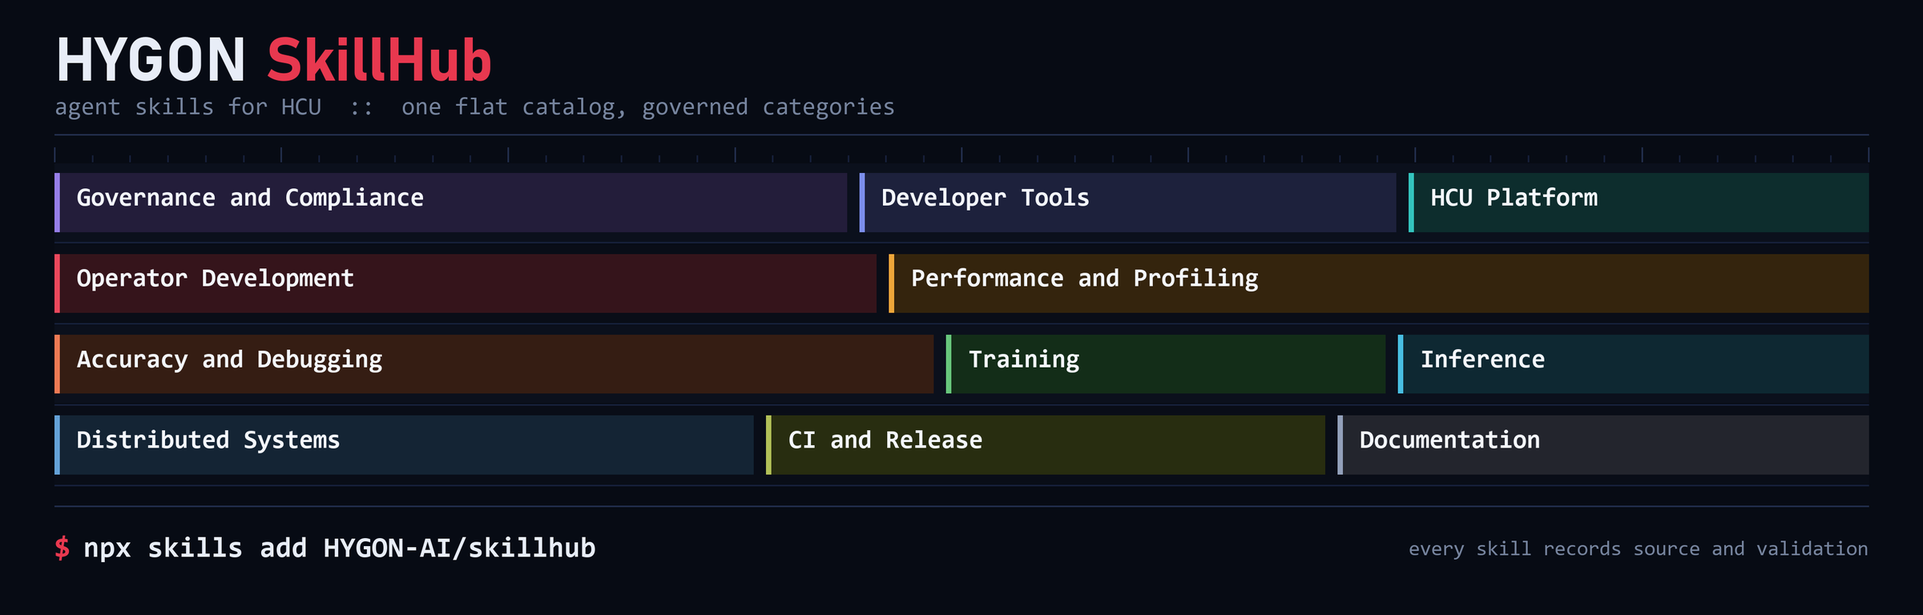
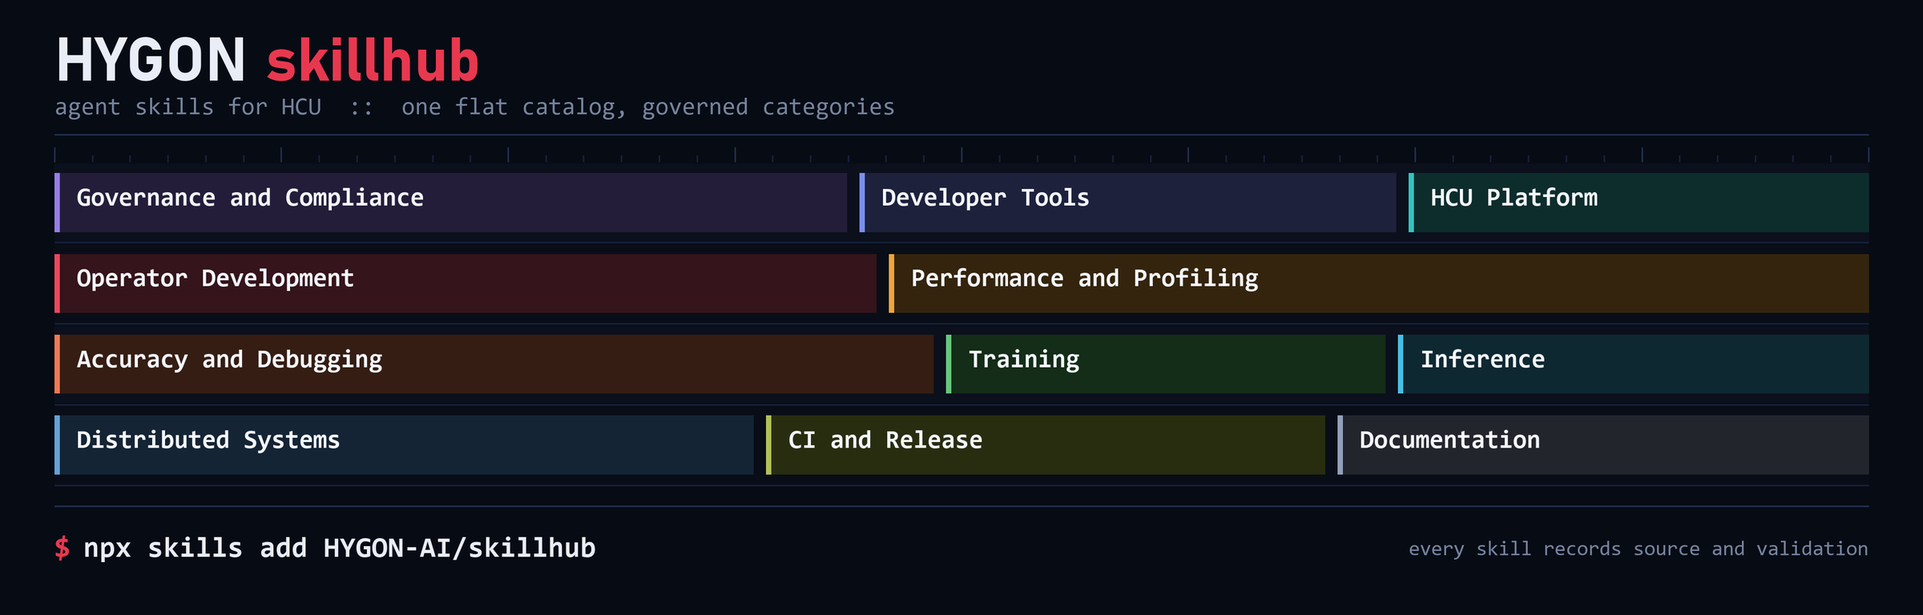
fix(branding): update skillhub display name casing
Cause: the catalog used mixed-case SkillHub labels that did not match the repository name.

Impact: human-facing labels now use lowercase skillhub while stable identifiers remain unchanged.

Changed region(s): [[0.125, 0.0625, 0.2812, 0.1562]]

diff --git a/scripts/new_skill.py b/scripts/new_skill.py
@@ -176,10 +176,10 @@ def validate_config(config):
             f"catalog root does not contain components.d: {config.catalog_root}"
         )
     if config.local and config.source_root.resolve() != config.catalog_root.resolve():
-        raise ScaffoldError("local skills must be created in the SkillHub checkout")
+        raise ScaffoldError("local skills must be created in the skillhub checkout")
     if not config.local and config.source_root.resolve() == config.catalog_root.resolve():
         raise ScaffoldError(
-            "remote product skills must use a product repository outside SkillHub"
+            "remote product skills must use a product repository outside skillhub"
         )
     if config.license_file is not None and (not config.license_file.is_file() or config.license_file.stat().st_size == 0):
         raise ScaffoldError("license file must be a non-empty file")
@@ -524,7 +524,7 @@ def create_scaffold(config, template_root=TEMPLATE_ROOT):
         "NEXT: complete the skill instructions and review the generated Skill Card; lifecycle is already published."
     )
     if config.local:
-        print("NEXT: generate the catalog, validate, and submit one SkillHub pull request.")
+        print("NEXT: generate the catalog, validate, and submit one skillhub pull request.")
     else:
         print(
             "NEXT: merge the source-repository change before synchronizing this component."
@@ -539,7 +539,7 @@ def parse_args(argv=None):
     parser.add_argument(
         "--local",
         action="store_true",
-        help="create the skill directly in SkillHub (the default when --repo is omitted)",
+        help="create the skill directly in skillhub (the default when --repo is omitted)",
     )
     parser.add_argument(
         "--repo",
@@ -589,7 +589,7 @@ def parse_args(argv=None):
     parser.add_argument(
         "--catalog-root",
         default=str(CATALOG_ROOT),
-        help="SkillHub checkout containing components.d and templates",
+        help="skillhub checkout containing components.d and templates",
     )
     parser.add_argument(
         "--with-openai", action="store_true", help="create agents/openai.yaml"
@@ -646,13 +646,13 @@ def config_from_args(args):
         local=local,
         component=component,
         product_name=require_text(
-            args.product_name or ("SkillHub" if local else display_name(component)),
+            args.product_name or ("skillhub" if local else display_name(component)),
             "product name",
         ),
         product_description=require_text(
             args.product_description
             or (
-                "Directly maintained HYGON-AI SkillHub skills."
+                "Directly maintained HYGON-AI skillhub skills."
                 if local
                 else args.description
             ),

diff --git a/tests/test_skillhub.py b/tests/test_skillhub.py
@@ -62,7 +62,7 @@ class ComponentOwnerTests(unittest.TestCase):
             component_dir = root / "components.d"
             component_dir.mkdir()
             (component_dir / "skillhub.yml").write_text(
-                "name: SkillHub\n"
+                "name: skillhub\n"
                 "local: true\n"
                 "description: Directly maintained skills.\n"
                 "skills:\n"
@@ -84,7 +84,7 @@ class ComponentOwnerTests(unittest.TestCase):
             component_dir = root / "components.d"
             component_dir.mkdir()
             (component_dir / "skillhub.yml").write_text(
-                "name: SkillHub\n"
+                "name: skillhub\n"
                 "repo: HYGON-AI/not-skillhub\n"
                 "local: true\n"
                 "description: Directly maintained skills.\n"
@@ -459,7 +459,7 @@ class PublicationContractTests(unittest.TestCase):
             (root / "staging").mkdir()
             (root / "components.d").mkdir()
             (root / "components.d" / "skillhub.yml").write_text(
-                "name: SkillHub\nlocal: true\ndescription: Local fixture.\nskills:\n"
+                "name: skillhub\nlocal: true\ndescription: Local fixture.\nskills:\n"
                 f"  - path: skills/{name}\n    catalog_dir: {name}\n"
                 "    category: Developer Tools\n", encoding="utf-8",
             )

diff --git a/scripts/contribute.py b/scripts/contribute.py
@@ -33,7 +33,7 @@ def parse_args(argv=None):
     commands = parser.add_subparsers(dest="command", required=True)
     importer = commands.add_parser("import", help="copy an existing skill directory into the local catalog (preferred when one exists)")
     importer.add_argument("source", help="one local skill directory or its SKILL.md; source is never modified")
-    importer.add_argument("--owner", help="SkillHub maintaining team; prompted unless supplied")
+    importer.add_argument("--owner", help="skillhub maintaining team; prompted unless supplied")
     importer.add_argument("--license", help="preserve source declarations; undeclared original contributions default to Apache-2.0")
     importer.add_argument("--category", help="exact catalog category; prompt if it cannot be reused")
     importer.add_argument("--runtime-permissions", help="runtime requirements and permissions; may refer to SKILL.md")

diff --git a/assets/build_banner.py b/assets/build_banner.py
@@ -1,4 +1,4 @@
-"""Render the HYGON SkillHub README banner as an animated trace timeline.
+"""Render the HYGON skillhub README banner as an animated trace timeline.
 
 The banner is a profiler-style timeline. Blocks are the eleven enforced catalog
 categories -- the stable public surface -- and a playhead sweeps left to right
@@ -145,7 +145,7 @@ def draw_frame(i):
     # Header ------------------------------------------------------------
     d.text((px(PAD), px(20)), "HYGON", font=f_title, fill=mix(INK, TXT, intro))
     tw = d.textlength("HYGON", font=f_title)
-    d.text((px(PAD) + tw + px(11), px(20)), "SkillHub", font=f_title,
+    d.text((px(PAD) + tw + px(11), px(20)), "skillhub", font=f_title,
            fill=mix(INK, HYGON_RED, intro))
 
     tag = "agent skills for HCU  ::  one flat catalog, governed categories"

diff --git a/scripts/import_skill.py b/scripts/import_skill.py
@@ -259,7 +259,7 @@ def validate_prepared(stage_root, config):
         stage_root / "components.d" / "skillhub.yml",
         yaml.safe_dump(
             {
-                "name": "SkillHub",
+                "name": "skillhub",
                 "local": True,
                 "description": "Local import validation fixture.",
                 "skills": [{
@@ -366,8 +366,8 @@ def import_local_skill(args, root, prompt):
         category=category,
         local=True,
         component="skillhub",
-        product_name="SkillHub",
-        product_description="Directly maintained HYGON-AI SkillHub skills.",
+        product_name="skillhub",
+        product_description="Directly maintained HYGON-AI skillhub skills.",
         source_root=root,
         catalog_root=root,
         license_file=license_file,

diff --git a/tests/test_contribute.py b/tests/test_contribute.py
@@ -293,7 +293,7 @@ class ContributionTests(unittest.TestCase):
                     source = self.source_skill(temporary)
                     component = root / "components.d/skillhub.yml"
                     component.write_text(yaml.safe_dump({
-                        "name": "SkillHub", "local": True, "description": "Fixture.", "skills": skills_value,
+                        "name": "skillhub", "local": True, "description": "Fixture.", "skills": skills_value,
                     }), encoding="utf-8")
                     before = self.snapshot(root)
                     args = ["import", str(source), "--owner", "Catalog Team"] if command == "import" else [

diff --git a/tests/test_new_skill.py b/tests/test_new_skill.py
@@ -323,7 +323,7 @@ class NewSkillTests(unittest.TestCase):
             catalog_root = root / "skillhub"
             (catalog_root / "components.d").mkdir(parents=True)
             (catalog_root / "components.d" / "skillhub.yml").write_text(
-                "name: SkillHub\n"
+                "name: skillhub\n"
                 "local: true\n"
                 "description: Directly maintained skills.\n"
                 "skills:\n"

diff --git a/skills/skillhub-contributor/SKILL.md b/skills/skillhub-contributor/SKILL.md
@@ -1,14 +1,14 @@
 ---
 name: skillhub-contributor
-description: Create, review, and onboard portable Agent Skills into Hygon SkillHub. Use when adding a new SKILL.md to the catalog, registering a local or remote component in components.d, preparing a SkillHub contribution, or diagnosing catalog validation and synchronization failures.
+description: Create, review, and onboard portable Agent Skills into Hygon skillhub. Use when adding a new SKILL.md to the catalog, registering a local or remote component in components.d, preparing a skillhub contribution, or diagnosing catalog validation and synchronization failures.
 license: Apache-2.0
-compatibility: Requires a SkillHub checkout, Python 3.11+, Git, Node.js/npm (CI uses Node 22), and requirements-dev.txt dependencies. Dependency setup, CLI discovery and opt-in remote checks may require network access.
+compatibility: Requires a skillhub checkout, Python 3.11+, Git, Node.js/npm (CI uses Node 22), and requirements-dev.txt dependencies. Dependency setup, CLI discovery and opt-in remote checks may require network access.
 metadata:
   author: HYGON-AI
   version: "1.3.0"
 ---
 
-# Contribute to Hygon SkillHub
+# Contribute to Hygon skillhub
 
 A skill is local by default: it lives in this catalog and ships in one pull
 request. Mirroring from any GitHub repository is an explicit opt-in for maintained
@@ -17,7 +17,7 @@ mirrored skill.
 
 ## Prerequisite
 
-Locate a checkout of the HYGON-AI SkillHub repository before running catalog
+Locate a checkout of the HYGON-AI skillhub repository before running catalog
 commands. If the checkout is absent, stop and give the user the reviewed clone
 or repository-location step. Do not assume `scripts/*.py` exists in a target
 product repository or inside this installed skill.
@@ -34,15 +34,15 @@ product repository or inside this installed skill.
 ## Workflow
 
 1. Confirm the owning team, mode, category and intended user prompts. Original local contributions default to root Apache-2.0 without a license prompt or duplicate LICENSE; preserve existing declarations and legal notices.
-2. When a local skill directory already exists, run `python3 scripts/contribute.py import <path>` from the SkillHub checkout; it copies the package without changing or executing the source. Record the team maintaining the SkillHub copy when prompted for owner; preserve any different source author or owner as attribution. Only when no package exists, run `python3 scripts/contribute.py new <name>` to scaffold one. Generated cards default to `published`, which is metadata, not review approval or permission to submit. Use `scripts/new_skill.py --repo` only for ongoing remote synchronization.
+2. When a local skill directory already exists, run `python3 scripts/contribute.py import <path>` from the skillhub checkout; it copies the package without changing or executing the source. Record the team maintaining the skillhub copy when prompted for owner; preserve any different source author or owner as attribution. Only when no package exists, run `python3 scripts/contribute.py new <name>` to scaffold one. Generated cards default to `published`, which is metadata, not review approval or permission to submit. Use `scripts/new_skill.py --repo` only for ongoing remote synchronization.
 3. Use lowercase letters, digits, and hyphens for the directory and frontmatter `name`, and keep the name globally descriptive.
 4. Keep `SKILL.md` focused on procedures the agent cannot infer. Put detailed knowledge in `references/`, deterministic helpers in `scripts/`, and output material in `assets/`. Do not nest another `SKILL.md`.
 5. Complete scaffold content and review runtime requirements and permissions. Import reuses an existing authored runtime section unless `--runtime-permissions` overrides it; otherwise it prompts or links to `SKILL.md`. No Validation section or eval dataset is required. Preserve real validation notes and attribution; cleanup removes only recognized old template placeholders.
 6. Review the generated `components.d/skillhub.yml` change. The helper registers a local package under its globally unique `catalog_dir` and chosen allowlisted category; do not hand-edit generated catalog files.
-7. Run `python3 scripts/contribute.py check` from the SkillHub root. It regenerates catalog files and runs unit, policy, specification, provenance and normal/full-depth discovery checks without submitting Git changes.
+7. Run `python3 scripts/contribute.py check` from the skillhub root. It regenerates catalog files and runs unit, policy, specification, provenance and normal/full-depth discovery checks without submitting Git changes.
 8. For a remote component only, apply synchronization separately after reviewing destinations, then rerun `contribute.py check`. Remote provenance must prove the ref, resolved commit, source digest, lock entry and published tree agree.
 9. A catalog-owned staging entrypoint must remain `SKILL.md.candidate` until promotion.
-10. Review the diff and, when the user authorizes submission, use ordinary Git to submit one signed-off pull request. A local skill lands in one PR; a synchronized remote skill also needs one SkillHub PR containing registration, mirror and lock. Require completed Quality Gate, catalog validation, DCO and maintainer review before merge; queued jobs are not passes.
+10. Review the diff and, when the user authorizes submission, use ordinary Git to submit one signed-off pull request. A local skill lands in one PR; a synchronized remote skill also needs one skillhub PR containing registration, mirror and lock. Require completed Quality Gate, catalog validation, DCO and maintainer review before merge; queued jobs are not passes.
 
 Read [onboarding.md](references/onboarding.md) for the component schema, release checklist, and troubleshooting commands.
 

diff --git a/README.md b/README.md
@@ -2,7 +2,7 @@
 
 <div align="center">
 
-<img src="assets/banner.gif" alt="HYGON SkillHub: agent skills for HCU, grouped by governed catalog category" width="1200"/>
+<img src="assets/banner.gif" alt="HYGON skillhub: agent skills for HCU, grouped by governed catalog category" width="1200"/>
 
 </div>
 
@@ -44,7 +44,7 @@ and are not written for one agent.
 Create a branch, then prefer importing an existing self-contained skill directory.
 Its `SKILL.md`, references, scripts, assets and bundled license material are
 copied without modifying the source. The command asks who will maintain the
-SkillHub copy; existing source authorship remains preserved separately:
+skillhub copy; existing source authorship remains preserved separately:
 
 ```bash
 python3 scripts/contribute.py import ../my-existing-skill
@@ -97,7 +97,7 @@ not contain nested `SKILL.md` files or depend on sibling skills. See the
 
 | Product | Description | Skills |
 |---|---|---|
-| **SkillHub** | Author, validate, onboard, and publish portable Agent Skills across HYGON-AI projects. | [`audit-hygon-open-source`](skills/audit-hygon-open-source), [`audit-hygon-quality-security`](skills/audit-hygon-quality-security), [`skillhub-contributor`](skills/skillhub-contributor), [`torch-trace-operator-profiler`](skills/torch-trace-operator-profiler) |
+| **skillhub** | Author, validate, onboard, and publish portable Agent Skills across HYGON-AI projects. | [`audit-hygon-open-source`](skills/audit-hygon-open-source), [`audit-hygon-quality-security`](skills/audit-hygon-quality-security), [`skillhub-contributor`](skills/skillhub-contributor), [`torch-trace-operator-profiler`](skills/torch-trace-operator-profiler) |
 
 <!-- catalog:end -->
 
@@ -111,20 +111,20 @@ not contain nested `SKILL.md` files or depend on sibling skills. See the
 
 | Skill | Product | Description |
 |---|---|---|
-| [`skillhub-contributor`](skills/skillhub-contributor) | SkillHub | Create, review, and onboard portable Agent Skills into Hygon SkillHub. Use when adding a new SKILL.md to the catalog, registering a local or remote component in components.d, preparing a SkillHub contribution, or diagnosing catalog validation and synchronization failures. |
+| [`skillhub-contributor`](skills/skillhub-contributor) | skillhub | Create, review, and onboard portable Agent Skills into Hygon skillhub. Use when adding a new SKILL.md to the catalog, registering a local or remote component in components.d, preparing a skillhub contribution, or diagnosing catalog validation and synchronization failures. |
 
 ### Governance and Compliance
 
 | Skill | Product | Description |
 |---|---|---|
-| [`audit-hygon-open-source`](skills/audit-hygon-open-source) | SkillHub | Assess repository release readiness by reviewing licensing, notices, source provenance, file metadata, and commit history. Use when preparing a fixed Git revision for distribution or generating a concise Chinese remediation report. |
-| [`audit-hygon-quality-security`](skills/audit-hygon-quality-security) | SkillHub | Assess a fixed Git revision for release-readiness quality and security issues, compare against a declared baseline when needed, and generate a concise Chinese remediation report. Use before release to review code quality, dependency risk, workflow integrity, and secret exposure. |
+| [`audit-hygon-open-source`](skills/audit-hygon-open-source) | skillhub | Assess repository release readiness by reviewing licensing, notices, source provenance, file metadata, and commit history. Use when preparing a fixed Git revision for distribution or generating a concise Chinese remediation report. |
+| [`audit-hygon-quality-security`](skills/audit-hygon-quality-security) | skillhub | Assess a fixed Git revision for release-readiness quality and security issues, compare against a declared baseline when needed, and generate a concise Chinese remediation report. Use before release to review code quality, dependency risk, workflow integrity, and secret exposure. |
 
 ### Performance and Profiling
 
 | Skill | Product | Description |
 |---|---|---|
-| [`torch-trace-operator-profiler`](skills/torch-trace-operator-profiler) | SkillHub | Analyze a torch.profiler Chrome/Perfetto JSON trace to attribute time across Python scopes, ATen operators, GPU kernels, runtime API overhead and memory copies. Use when diagnosing a slow PyTorch operator, custom extension, Triton kernel or submodule from a captured trace. |
+| [`torch-trace-operator-profiler`](skills/torch-trace-operator-profiler) | skillhub | Analyze a torch.profiler Chrome/Perfetto JSON trace to attribute time across Python scopes, ATen operators, GPU kernels, runtime API overhead and memory copies. Use when diagnosing a slow PyTorch operator, custom extension, Triton kernel or submodule from a captured trace. |
 
 <!-- categories:end -->
 

diff --git a/docs/publishing/quickstart.md b/docs/publishing/quickstart.md
@@ -16,7 +16,7 @@ contribute.py import <existing-skill> | new <name> when starting from scratch
 
 ## Preparation (once per checkout)
 
-Run commands from a SkillHub checkout, not from the original skill directory.
+Run commands from a skillhub checkout, not from the original skill directory.
 Use Python 3.11+, Git, and Node.js/npm (CI uses Node.js 22). In PowerShell,
 `python` may be used in place of `python3`.
 
@@ -49,7 +49,7 @@ source files or modify the source directory. It reuses source metadata where it
 is trustworthy and always changes the imported Skill Card lifecycle to
 `published`. It is a one-time local copy, not upstream synchronization.
 
-Import always asks for the **SkillHub maintaining team** unless `--owner` is
+Import always asks for the **skillhub maintaining team** unless `--owner` is
 supplied. This records who is responsible for the catalog copy; it does not
 replace the original author or an existing Skill Card owner, which remain in
 the imported package as attribution. Category and runtime information are only
@@ -160,7 +160,7 @@ are still required.
 
 ### Retrying an existing import
 
-Updating SkillHub's scripts does not rewrite a previously generated Skill Card.
+Updating skillhub's scripts does not rewrite a previously generated Skill Card.
 Prefer editing that local card: remove retired template-only Validation/origin
 lines, retain real authored notes, and complete its runtime information.
 If deliberately starting again, back up the imported directory outside `skills/`
@@ -177,7 +177,7 @@ your source:
 - **Keep an existing skill synchronized:** register and mirror the existing
   package; follow [Import external skills](external-skills.md).
 - **Create a new skill in a source repository:** use the authoring steps below,
-  merge the source change first, then submit the SkillHub import PR.
+  merge the source change first, then submit the skillhub import PR.
 
 An existing upstream package must already meet the publication contract;
 do not scaffold over an existing skill.
@@ -194,7 +194,7 @@ new_skill.py --repo ...
   -> sync_sources.py --check   (preview)
   -> sync_sources.py           (apply)
   -> generate_catalog.py, validate
-  -> commit --signoff, open the SkillHub pull request
+  -> commit --signoff, open the skillhub pull request
 ```
 
 ### Scaffold a new skill into the source repository
@@ -246,7 +246,7 @@ python3 scripts/sync_sources.py --check --component <component>
 ```
 
 Applying the mirror also writes a `.skillhub-lock.json` entry recording the
-resolved commit and the source-tree SHA-256 digest. Open the SkillHub pull
+resolved commit and the source-tree SHA-256 digest. Open the skillhub pull
 request with the catalog maintainer as reviewer. Quality Gate, catalog validation
 and DCO must pass before merge. Manually opening a PR does not require GitHub App
 credentials; automated sync PRs require the App configuration described in

diff --git a/CONTRIBUTING.md b/CONTRIBUTING.md
@@ -1,6 +1,6 @@
 # Contributing
 
-Hygon SkillHub is a publication catalog. By default a skill lives here and ships
+Hygon skillhub is a publication catalog. By default a skill lives here and ships
 in one pull request. Mirroring from a product repository stays available as an
 explicit opt-in, for teams that want a skill to evolve alongside the code it
 documents.
@@ -28,7 +28,7 @@ administrators must apply and verify the
 
 ## Publication boundary
 
-SkillHub accepts maintained skills from any GitHub organization or personal repository. Every imported skill needs a catalog maintainer, permission for public redistribution, accurate source metadata and the same quality gates as local skills.
+skillhub accepts maintained skills from any GitHub organization or personal repository. Every imported skill needs a catalog maintainer, permission for public redistribution, accurate source metadata and the same quality gates as local skills.
 
 Third-party skills may be mirrored unchanged when their license permits it and their package meets admission requirements. Preserve original authorship, copyright, license and NOTICE; do not present catalog inclusion as HYGON authorship or an HCU adaptation. For an existing upstream skill, follow the [external import guide](docs/publishing/external-skills.md); no upstream PR is needed if the package is already complete.
 
@@ -37,10 +37,10 @@ Third-party skills may be mirrored unchanged when their license permits it and t
 For a condensed walkthrough with the common failure messages, see
 [Add a skill: quick start](docs/publishing/quickstart.md).
 
-From a SkillHub checkout, import an existing skill directory when one is
+From a skillhub checkout, import an existing skill directory when one is
 available. This retains the source package and copies its portable resources;
 it does not establish ongoing synchronization. Enter the team responsible for
-maintaining the SkillHub copy; this does not replace source authorship:
+maintaining the skillhub copy; this does not replace source authorship:
 
 ```bash
 python3 scripts/contribute.py import ../quality-gate-audit
@@ -163,7 +163,7 @@ resources; this catalog does not execute or impose a dataset schema on them.
 
 ## Add a catalog-owned staging prototype
 
-Use `staging/` for a SkillHub-wide workflow that is not ready for admission.
+Use `staging/` for a skillhub-wide workflow that is not ready for admission.
 Write the entrypoint as `SKILL.md.candidate` and complete the same admission
 evidence as any other skill. Promotion is a reviewed change that moves the
 candidate to `skills/`, renames the entrypoint to `SKILL.md`, registers it with

diff --git a/docs/publishing/external-skills.md b/docs/publishing/external-skills.md
@@ -1,20 +1,20 @@
 # Skills from another repository
 
-SkillHub accepts skills from GitHub organizations and personal repositories.
+skillhub accepts skills from GitHub organizations and personal repositories.
 The default is a one-time local import: it preserves the source package but
-makes the reviewed copy a SkillHub-maintained skill. Ongoing synchronization is
+makes the reviewed copy a skillhub-maintained skill. Ongoing synchronization is
 an explicit advanced option.
 
 ## Default: one-time local import
 
-Clone or otherwise obtain the source directory, then run this from a SkillHub
+Clone or otherwise obtain the source directory, then run this from a skillhub
 contribution branch:
 
 ```bash
 python3 scripts/contribute.py import ../upstream-skill
 ```
 
-The interactive import asks for the team that will maintain the SkillHub copy,
+The interactive import asks for the team that will maintain the skillhub copy,
 even when the source already records an author or owner. This catalog maintainer
 does not replace the preserved source attribution. Pass `--owner` to provide it
 non-interactively.
@@ -85,7 +85,7 @@ that remote mirror path.
    match the Skill's frontmatter `name`. Skill Card source
    metadata must match the registered repository and source path. One component
    registers one repository and one ref.
-3. Import and validate from the SkillHub root:
+3. Import and validate from the skillhub root:
 
    ```bash
    python scripts/sync_sources.py --component tool-skills
@@ -100,7 +100,7 @@ that remote mirror path.
    Apply mode creates the mirror and lock entry. `--check` reports drift and
    exits nonzero for a first import without a mirror/lock; that is expected.
    Follow CONTRIBUTING's normal and full-depth CLI discovery checks as well.
-4. Commit with sign-off and open a SkillHub PR containing the registration,
+4. Commit with sign-off and open a skillhub PR containing the registration,
    mirror, `.skillhub-lock.json` and generated catalog files. Quality Gate,
    catalog validation and DCO must pass, followed by maintainer review.
    Do not merge a source-only registration before its mirror and lock.
